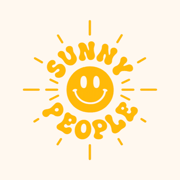
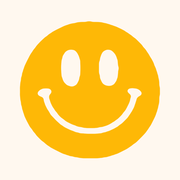
new icona

diff --git a/privacy.html b/privacy.html
@@ -17,10 +17,12 @@ content="Informativa privacy e cookie policy di Sunny People: nessun cookie, nes
 <!--#META#-->
 <link rel="canonical" href="https://www.sunnypeopleevents.com/privacy.html">
 
-<link rel="icon" href="favicon.ico" sizes="32x32">
-<link rel="icon" type="image/png" sizes="32x32" href="favicon-32.png">
-<link rel="icon" type="image/png" sizes="192x192" href="favicon-192.png">
-<link rel="apple-touch-icon" sizes="180x180" href="apple-touch-icon.png">
+<link rel="icon" href="/favicon.ico" sizes="any">
+<link rel="icon" type="image/png" sizes="48x48" href="/favicon-48.png">
+<link rel="icon" type="image/png" sizes="96x96" href="/favicon-96.png">
+<link rel="icon" type="image/png" sizes="144x144" href="/favicon-144.png">
+<link rel="icon" type="image/png" sizes="192x192" href="/favicon-192.png">
+<link rel="apple-touch-icon" sizes="180x180" href="/apple-touch-icon.png">
 <meta name="theme-color" content="#FFF8EF">
 
 <meta property="og:type" content="website">

diff --git a/collab.html b/collab.html
@@ -14,10 +14,12 @@
 <!--#META#-->
 <link rel="canonical" href="https://www.sunnypeopleevents.com/collab.html">
 
-<link rel="icon" href="favicon.ico" sizes="32x32">
-<link rel="icon" type="image/png" sizes="32x32" href="favicon-32.png">
-<link rel="icon" type="image/png" sizes="192x192" href="favicon-192.png">
-<link rel="apple-touch-icon" sizes="180x180" href="apple-touch-icon.png">
+<link rel="icon" href="/favicon.ico" sizes="any">
+<link rel="icon" type="image/png" sizes="48x48" href="/favicon-48.png">
+<link rel="icon" type="image/png" sizes="96x96" href="/favicon-96.png">
+<link rel="icon" type="image/png" sizes="144x144" href="/favicon-144.png">
+<link rel="icon" type="image/png" sizes="192x192" href="/favicon-192.png">
+<link rel="apple-touch-icon" sizes="180x180" href="/apple-touch-icon.png">
 <meta name="theme-color" content="#FFF8EF">
 
 <meta property="og:type" content="website">

diff --git a/event.html b/event.html
@@ -14,10 +14,12 @@
 <!--#META#-->
 <link rel="canonical" href="https://www.sunnypeopleevents.com/event.html">
 
-<link rel="icon" href="favicon.ico" sizes="32x32">
-<link rel="icon" type="image/png" sizes="32x32" href="favicon-32.png">
-<link rel="icon" type="image/png" sizes="192x192" href="favicon-192.png">
-<link rel="apple-touch-icon" sizes="180x180" href="apple-touch-icon.png">
+<link rel="icon" href="/favicon.ico" sizes="any">
+<link rel="icon" type="image/png" sizes="48x48" href="/favicon-48.png">
+<link rel="icon" type="image/png" sizes="96x96" href="/favicon-96.png">
+<link rel="icon" type="image/png" sizes="144x144" href="/favicon-144.png">
+<link rel="icon" type="image/png" sizes="192x192" href="/favicon-192.png">
+<link rel="apple-touch-icon" sizes="180x180" href="/apple-touch-icon.png">
 <meta name="theme-color" content="#FFF8EF">
 
 <meta property="og:type" content="website">

diff --git a/merch.html b/merch.html
@@ -14,10 +14,12 @@
 <!--#META#-->
 <link rel="canonical" href="https://www.sunnypeopleevents.com/merch.html">
 
-<link rel="icon" href="favicon.ico" sizes="32x32">
-<link rel="icon" type="image/png" sizes="32x32" href="favicon-32.png">
-<link rel="icon" type="image/png" sizes="192x192" href="favicon-192.png">
-<link rel="apple-touch-icon" sizes="180x180" href="apple-touch-icon.png">
+<link rel="icon" href="/favicon.ico" sizes="any">
+<link rel="icon" type="image/png" sizes="48x48" href="/favicon-48.png">
+<link rel="icon" type="image/png" sizes="96x96" href="/favicon-96.png">
+<link rel="icon" type="image/png" sizes="144x144" href="/favicon-144.png">
+<link rel="icon" type="image/png" sizes="192x192" href="/favicon-192.png">
+<link rel="apple-touch-icon" sizes="180x180" href="/apple-touch-icon.png">
 <meta name="theme-color" content="#FFF8EF">
 
 <meta property="og:type" content="website">

diff --git a/index.html b/index.html
@@ -14,10 +14,12 @@
 <!--#META#-->
 <link rel="canonical" href="https://www.sunnypeopleevents.com/">
 
-<link rel="icon" href="favicon.ico" sizes="32x32">
-<link rel="icon" type="image/png" sizes="32x32" href="favicon-32.png">
-<link rel="icon" type="image/png" sizes="192x192" href="favicon-192.png">
-<link rel="apple-touch-icon" sizes="180x180" href="apple-touch-icon.png">
+<link rel="icon" href="/favicon.ico" sizes="any">
+<link rel="icon" type="image/png" sizes="48x48" href="/favicon-48.png">
+<link rel="icon" type="image/png" sizes="96x96" href="/favicon-96.png">
+<link rel="icon" type="image/png" sizes="144x144" href="/favicon-144.png">
+<link rel="icon" type="image/png" sizes="192x192" href="/favicon-192.png">
+<link rel="apple-touch-icon" sizes="180x180" href="/apple-touch-icon.png">
 <meta name="theme-color" content="#FFF8EF">
 
 <meta property="og:type" content="website">

diff --git a/404.html b/404.html
@@ -16,10 +16,12 @@
 
 <link rel="canonical" href="https://www.sunnypeopleevents.com/404.html">
 
-<link rel="icon" href="favicon.ico" sizes="32x32">
-<link rel="icon" type="image/png" sizes="32x32" href="favicon-32.png">
-<link rel="icon" type="image/png" sizes="192x192" href="favicon-192.png">
-<link rel="apple-touch-icon" sizes="180x180" href="apple-touch-icon.png">
+<link rel="icon" href="/favicon.ico" sizes="any">
+<link rel="icon" type="image/png" sizes="48x48" href="/favicon-48.png">
+<link rel="icon" type="image/png" sizes="96x96" href="/favicon-96.png">
+<link rel="icon" type="image/png" sizes="144x144" href="/favicon-144.png">
+<link rel="icon" type="image/png" sizes="192x192" href="/favicon-192.png">
+<link rel="apple-touch-icon" sizes="180x180" href="/apple-touch-icon.png">
 <meta name="theme-color" content="#FFF8EF">
 
 <meta property="og:type" content="website">

diff --git a/tools/build.py b/tools/build.py
@@ -155,10 +155,12 @@ def meta_block(title, description, path, lang, noindex, extra):
     lines = [
         '<link rel="canonical" href="%s">' % url,
         "",
-        '<link rel="icon" href="favicon.ico" sizes="32x32">',
-        '<link rel="icon" type="image/png" sizes="32x32" href="favicon-32.png">',
-        '<link rel="icon" type="image/png" sizes="192x192" href="favicon-192.png">',
-        '<link rel="apple-touch-icon" sizes="180x180" href="apple-touch-icon.png">',
+        '<link rel="icon" href="/favicon.ico" sizes="any">',
+        '<link rel="icon" type="image/png" sizes="48x48" href="/favicon-48.png">',
+        '<link rel="icon" type="image/png" sizes="96x96" href="/favicon-96.png">',
+        '<link rel="icon" type="image/png" sizes="144x144" href="/favicon-144.png">',
+        '<link rel="icon" type="image/png" sizes="192x192" href="/favicon-192.png">',
+        '<link rel="apple-touch-icon" sizes="180x180" href="/apple-touch-icon.png">',
         '<meta name="theme-color" content="#FFF8EF">',
         "",
         '<meta property="og:type" content="website">',
